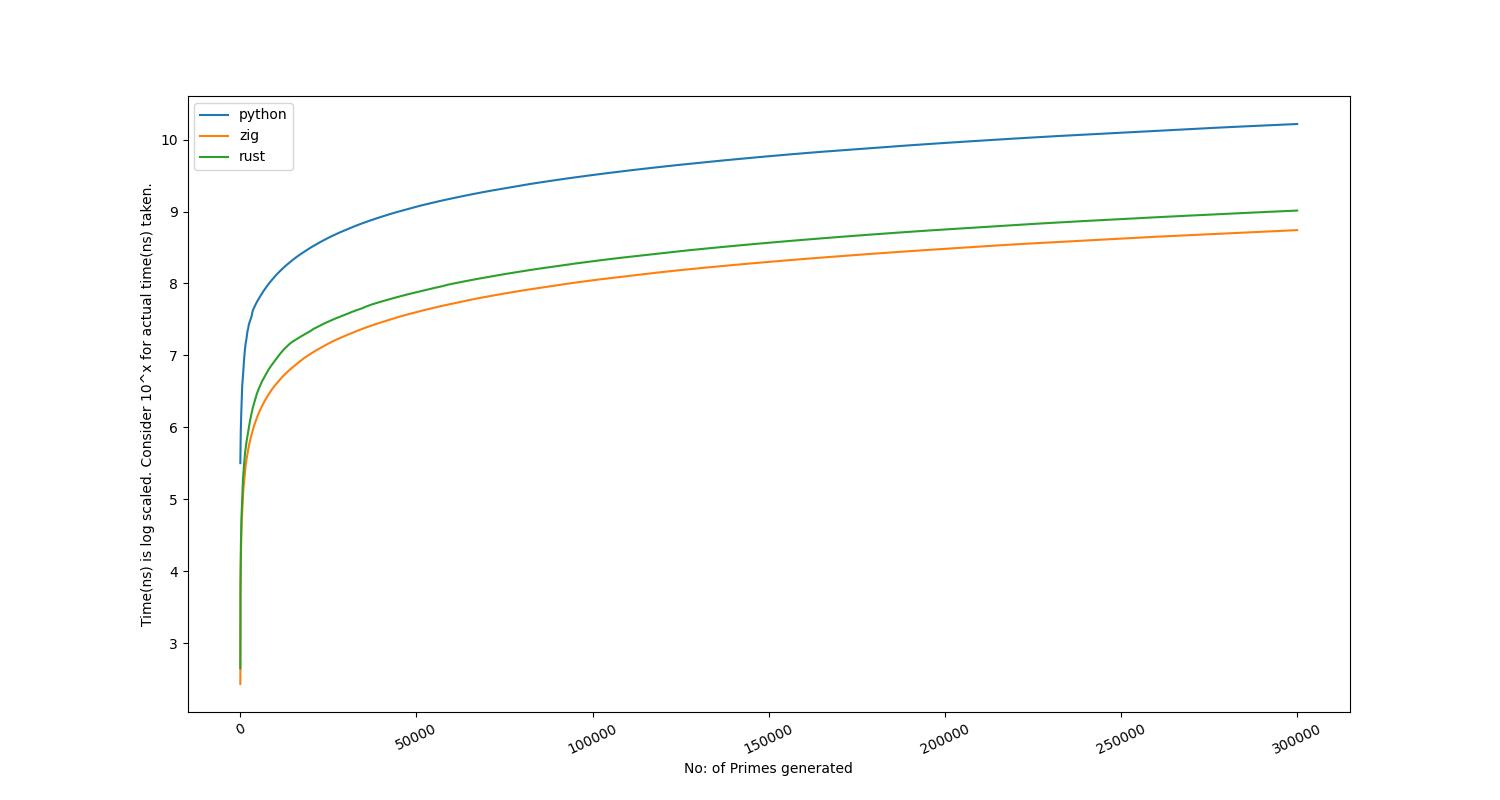
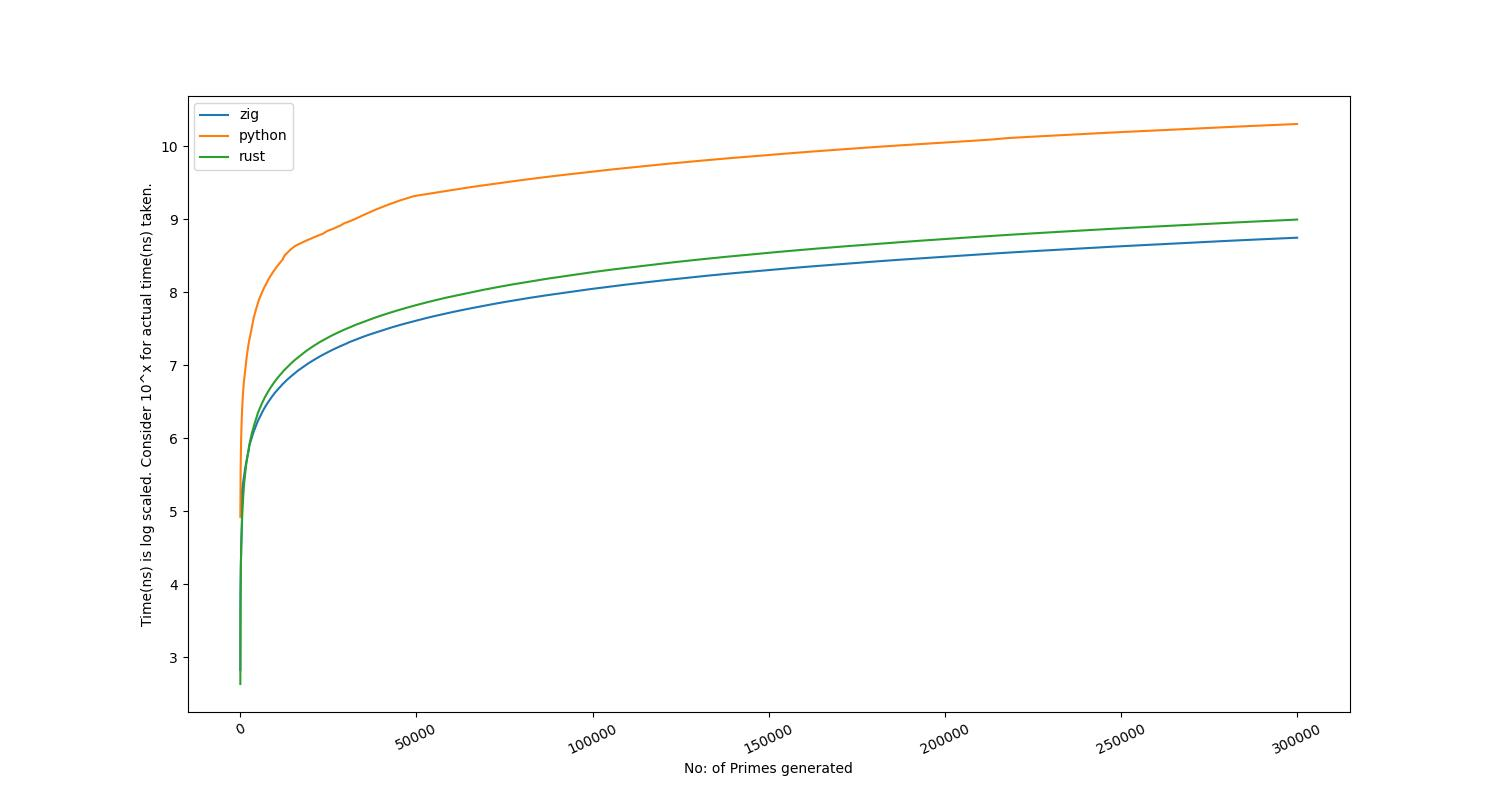
benchmark image and updated Reamdme

diff --git a/README.md b/README.md
@@ -7,6 +7,6 @@ Note: The above graph is autogenerated for every github action run. Tweak the pa
 
 |Language|nth prime|time taken|
 |---|---|---|
-|python|300000|16.481s|
-|zig|300000|0.552s|
-|rust|300000|1.032s|
+|zig|300000|0.557s|
+|python|300000|20.073s|
+|rust|300000|0.986s|
